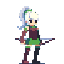
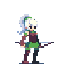
fix sizes

diff --git a/src/game/entities/NPC.ts b/src/game/entities/NPC.ts
@@ -27,8 +27,13 @@ export class NPC extends Actor {
             });
         }
         if (this.e.animation) {
-            if (this.e.animation !== "fox") {
+            if (this.e.animation === "dragon_idle") {
+                animations[this.e.animation].scale = vec(4, 4);
+            } else if (this.e.animation === "shrek") {
                 animations[this.e.animation].scale = vec(2, 2);
+            } else if (this.e.animation === "kstore") {
+                animations[this.e.animation].scale = vec(1.5, 1.5);
+            } else {
             }
             this.graphics.add("default", animations[this.e.animation]);
             this.graphics.use("default");

diff --git a/src/app/Editor.tsx b/src/app/Editor.tsx
@@ -469,7 +469,10 @@ export class Editor extends React.Component<{}, EditorState> {
         console.log(ev);
         let size = 64;
         if (this.state.type === "npc") {
-            size = animations[this.state.type_npc].height || 64;
+            const sizes = {
+                acidpop: 64, kstore: 96, dragon_idle: 256, shrek: 128
+            }
+            size = sizes[this.state.type_npc] || animations[this.state.type_npc].height || 128;
         }
         if (this.state.type === "foe") {
             size = 48 * 2;
